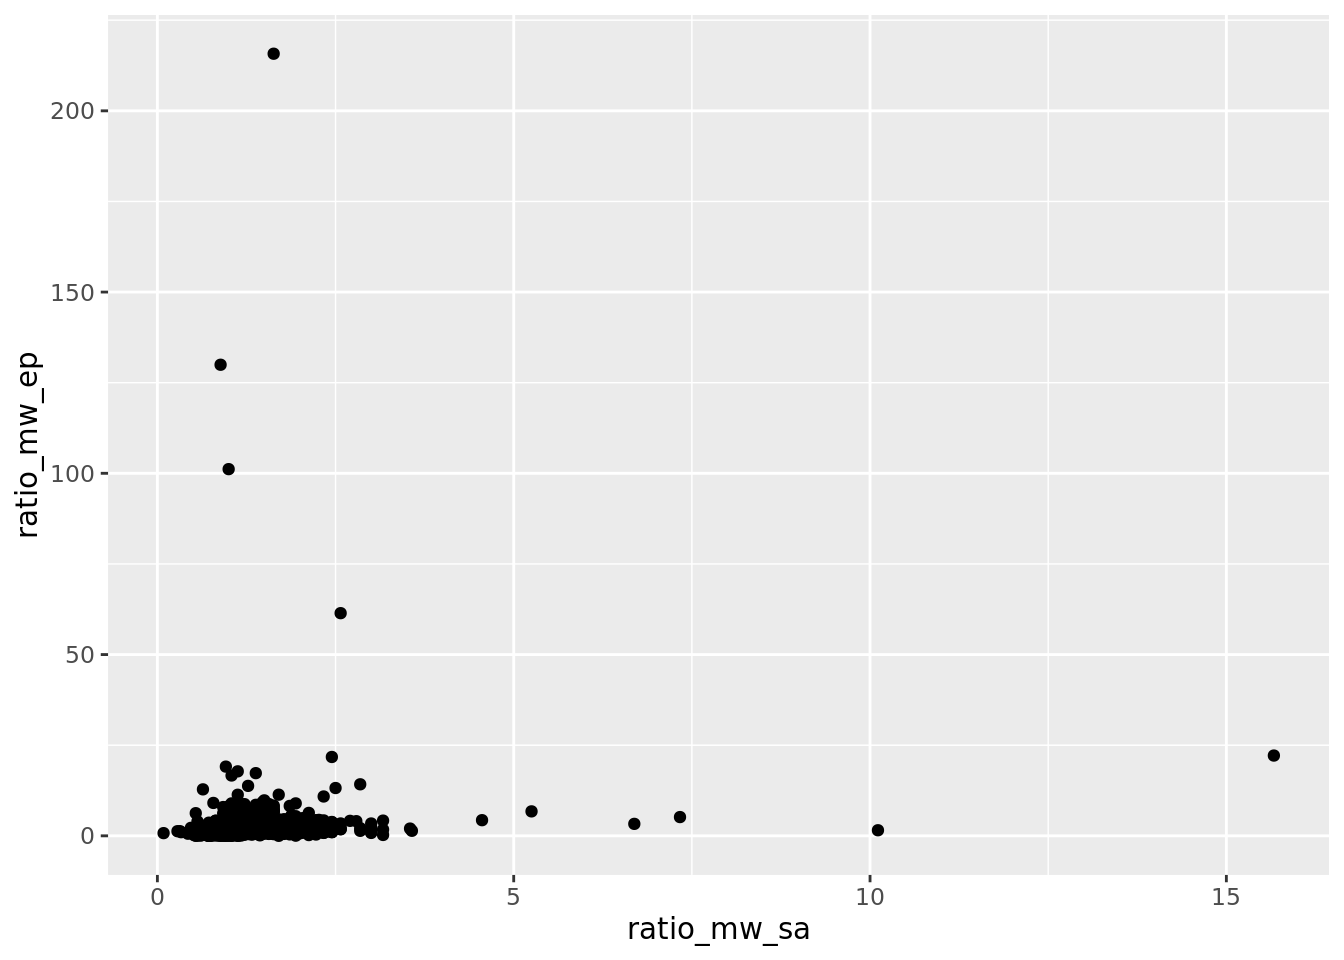
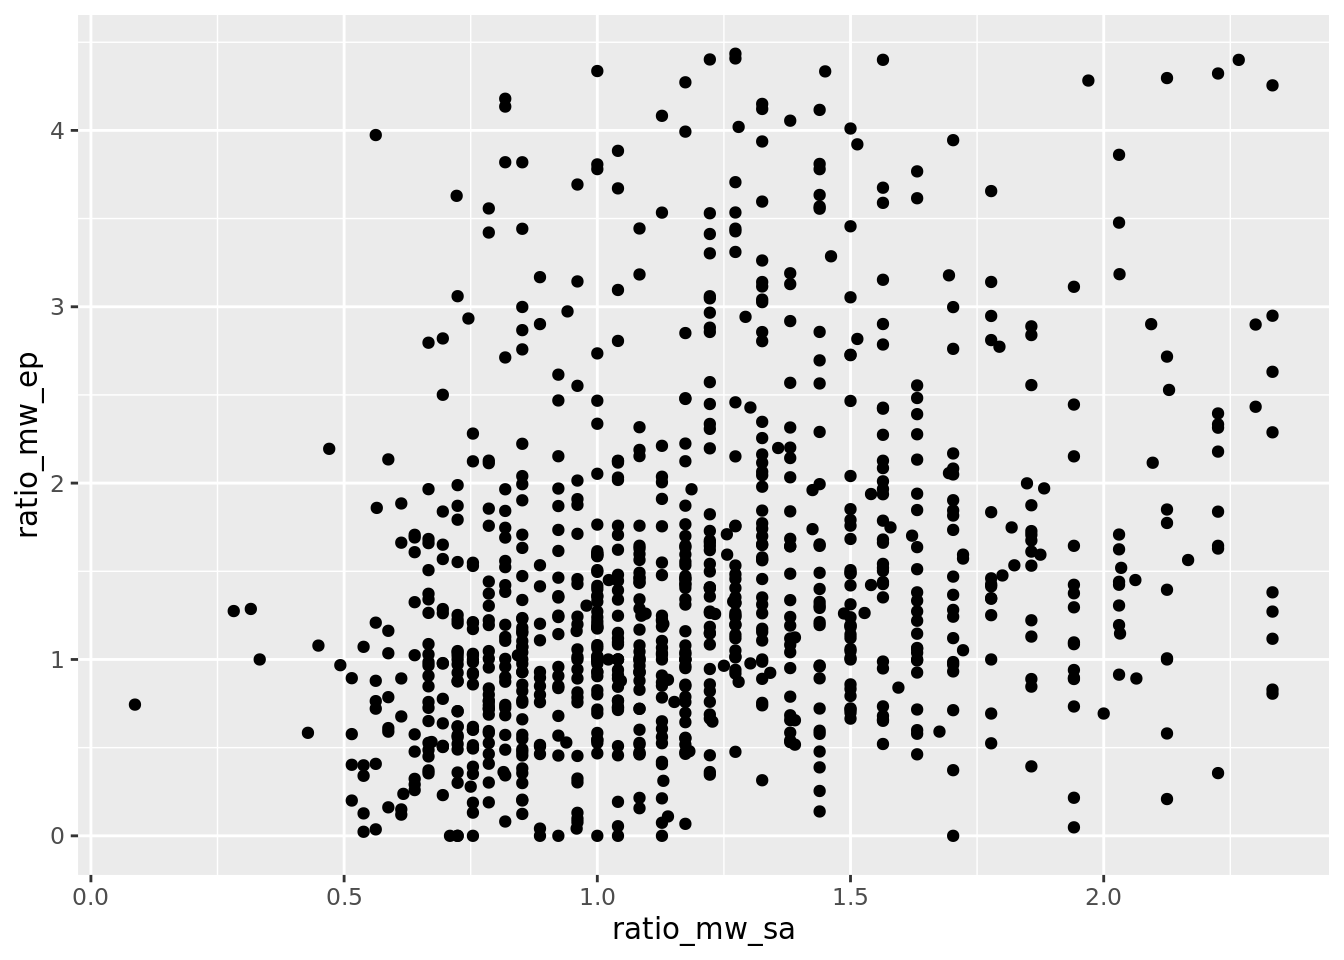
outliers no football and football

diff --git a/docs/report.html b/docs/report.html
@@ -327,13 +327,39 @@ $ ratio_mw_ep         &lt;dbl&gt; 1.1985337, 2.4287042, 1.3413262, 1.3052437, 6.
 <div class="sourceCode cell-code" id="cb8"><pre class="sourceCode r code-with-copy"><code class="sourceCode r"><span id="cb8-1"><a href="#cb8-1" aria-hidden="true" tabindex="-1"></a>eada_nofootball <span class="ot">&lt;-</span> eada <span class="sc">|&gt;</span></span>
 <span id="cb8-2"><a href="#cb8-2" aria-hidden="true" tabindex="-1"></a>  <span class="fu">filter</span>(classification_name <span class="sc">==</span> <span class="st">"NCAA Division I without football"</span> <span class="sc">|</span></span>
 <span id="cb8-3"><a href="#cb8-3" aria-hidden="true" tabindex="-1"></a>        classification_name <span class="sc">==</span> <span class="st">"NCAA Division II without football"</span> <span class="sc">|</span> </span>
-<span id="cb8-4"><a href="#cb8-4" aria-hidden="true" tabindex="-1"></a>        classification_name <span class="sc">==</span> <span class="st">"NCAA Division III without football"</span>)</span></code><button title="Copy to Clipboard" class="code-copy-button"><i class="bi"></i></button></pre></div>
+<span id="cb8-4"><a href="#cb8-4" aria-hidden="true" tabindex="-1"></a>        classification_name <span class="sc">==</span> <span class="st">"NCAA Division III without football"</span>)</span>
+<span id="cb8-5"><a href="#cb8-5" aria-hidden="true" tabindex="-1"></a></span>
+<span id="cb8-6"><a href="#cb8-6" aria-hidden="true" tabindex="-1"></a>Q1_nofootball_ep <span class="ot">&lt;-</span> <span class="fu">quantile</span>(eada_nofootball<span class="sc">$</span>ratio_mw_ep, .<span class="dv">25</span>)</span>
+<span id="cb8-7"><a href="#cb8-7" aria-hidden="true" tabindex="-1"></a>Q1_nofootball_sa <span class="ot">&lt;-</span> <span class="fu">quantile</span>(eada_nofootball<span class="sc">$</span>ratio_mw_sa, .<span class="dv">25</span>)</span>
+<span id="cb8-8"><a href="#cb8-8" aria-hidden="true" tabindex="-1"></a></span>
+<span id="cb8-9"><a href="#cb8-9" aria-hidden="true" tabindex="-1"></a>Q3_nofootball_ep <span class="ot">&lt;-</span> <span class="fu">quantile</span>(eada_nofootball<span class="sc">$</span>ratio_mw_ep, .<span class="dv">75</span>)</span>
+<span id="cb8-10"><a href="#cb8-10" aria-hidden="true" tabindex="-1"></a>Q3_nofootball_sa <span class="ot">&lt;-</span> <span class="fu">quantile</span>(eada_nofootball<span class="sc">$</span>ratio_mw_sa, .<span class="dv">75</span>)</span>
+<span id="cb8-11"><a href="#cb8-11" aria-hidden="true" tabindex="-1"></a></span>
+<span id="cb8-12"><a href="#cb8-12" aria-hidden="true" tabindex="-1"></a>IQR_nofootball_ep <span class="ot">&lt;-</span> <span class="fu">IQR</span>(eada_nofootball<span class="sc">$</span>ratio_mw_ep)</span>
+<span id="cb8-13"><a href="#cb8-13" aria-hidden="true" tabindex="-1"></a>IQR_nofootball_sa <span class="ot">&lt;-</span> <span class="fu">IQR</span>(eada_nofootball<span class="sc">$</span>ratio_mw_sa)</span>
+<span id="cb8-14"><a href="#cb8-14" aria-hidden="true" tabindex="-1"></a></span>
+<span id="cb8-15"><a href="#cb8-15" aria-hidden="true" tabindex="-1"></a>eada_nofootball <span class="ot">&lt;-</span> <span class="fu">subset</span>(eada_nofootball, eada_nofootball<span class="sc">$</span>ratio_mw_ep<span class="sc">&gt;</span> (Q1_nofootball_ep <span class="sc">-</span> <span class="fl">1.5</span><span class="sc">*</span>IQR_nofootball_ep) <span class="sc">&amp;</span> eada_nofootball<span class="sc">$</span>ratio_mw_ep<span class="sc">&lt;</span> (Q3_nofootball_ep <span class="sc">+</span> <span class="fl">1.5</span><span class="sc">*</span>IQR_nofootball_ep))</span>
+<span id="cb8-16"><a href="#cb8-16" aria-hidden="true" tabindex="-1"></a></span>
+<span id="cb8-17"><a href="#cb8-17" aria-hidden="true" tabindex="-1"></a>eada_nofootball <span class="ot">&lt;-</span> <span class="fu">subset</span>(eada_nofootball, eada_nofootball<span class="sc">$</span>ratio_mw_sa<span class="sc">&gt;</span> (Q1_nofootball_sa <span class="sc">-</span> <span class="fl">1.5</span><span class="sc">*</span>IQR_nofootball_sa) <span class="sc">&amp;</span> eada_nofootball<span class="sc">$</span>ratio_mw_sa<span class="sc">&lt;</span> (Q3_nofootball_sa <span class="sc">+</span> <span class="fl">1.5</span><span class="sc">*</span>IQR_nofootball_sa))</span></code><button title="Copy to Clipboard" class="code-copy-button"><i class="bi"></i></button></pre></div>
 </div>
 <div class="cell">
 <div class="sourceCode cell-code" id="cb9"><pre class="sourceCode r code-with-copy"><code class="sourceCode r"><span id="cb9-1"><a href="#cb9-1" aria-hidden="true" tabindex="-1"></a>eada_football <span class="ot">&lt;-</span> eada <span class="sc">|&gt;</span></span>
 <span id="cb9-2"><a href="#cb9-2" aria-hidden="true" tabindex="-1"></a>  <span class="fu">filter</span>(classification_name <span class="sc">!=</span> <span class="st">"NCAA Division I without football"</span> <span class="sc">|</span> </span>
 <span id="cb9-3"><a href="#cb9-3" aria-hidden="true" tabindex="-1"></a>         classification_name <span class="sc">!=</span> <span class="st">"NCAA Division II without football"</span> <span class="sc">|</span> </span>
-<span id="cb9-4"><a href="#cb9-4" aria-hidden="true" tabindex="-1"></a>         classification_name <span class="sc">!=</span> <span class="st">"NCAA Division III without football"</span>)</span></code><button title="Copy to Clipboard" class="code-copy-button"><i class="bi"></i></button></pre></div>
+<span id="cb9-4"><a href="#cb9-4" aria-hidden="true" tabindex="-1"></a>         classification_name <span class="sc">!=</span> <span class="st">"NCAA Division III without football"</span>)</span>
+<span id="cb9-5"><a href="#cb9-5" aria-hidden="true" tabindex="-1"></a></span>
+<span id="cb9-6"><a href="#cb9-6" aria-hidden="true" tabindex="-1"></a>Q1_football_ep <span class="ot">&lt;-</span> <span class="fu">quantile</span>(eada_football<span class="sc">$</span>ratio_mw_ep, .<span class="dv">25</span>)</span>
+<span id="cb9-7"><a href="#cb9-7" aria-hidden="true" tabindex="-1"></a>Q1_football_sa <span class="ot">&lt;-</span> <span class="fu">quantile</span>(eada_football<span class="sc">$</span>ratio_mw_sa, .<span class="dv">25</span>)</span>
+<span id="cb9-8"><a href="#cb9-8" aria-hidden="true" tabindex="-1"></a></span>
+<span id="cb9-9"><a href="#cb9-9" aria-hidden="true" tabindex="-1"></a>Q3_football_ep <span class="ot">&lt;-</span> <span class="fu">quantile</span>(eada_football<span class="sc">$</span>ratio_mw_ep, .<span class="dv">75</span>)</span>
+<span id="cb9-10"><a href="#cb9-10" aria-hidden="true" tabindex="-1"></a>Q3_football_sa <span class="ot">&lt;-</span> <span class="fu">quantile</span>(eada_football<span class="sc">$</span>ratio_mw_sa, .<span class="dv">75</span>)</span>
+<span id="cb9-11"><a href="#cb9-11" aria-hidden="true" tabindex="-1"></a></span>
+<span id="cb9-12"><a href="#cb9-12" aria-hidden="true" tabindex="-1"></a>IQR_football_ep <span class="ot">&lt;-</span> <span class="fu">IQR</span>(eada_football<span class="sc">$</span>ratio_mw_ep)</span>
+<span id="cb9-13"><a href="#cb9-13" aria-hidden="true" tabindex="-1"></a>IQR_football_sa <span class="ot">&lt;-</span> <span class="fu">IQR</span>(eada_football<span class="sc">$</span>ratio_mw_sa)</span>
+<span id="cb9-14"><a href="#cb9-14" aria-hidden="true" tabindex="-1"></a></span>
+<span id="cb9-15"><a href="#cb9-15" aria-hidden="true" tabindex="-1"></a>eada_football <span class="ot">&lt;-</span> <span class="fu">subset</span>(eada_football, eada_football<span class="sc">$</span>ratio_mw_ep<span class="sc">&gt;</span> (Q1_football_ep <span class="sc">-</span> <span class="fl">1.5</span><span class="sc">*</span>IQR_football_ep) <span class="sc">&amp;</span> eada_football<span class="sc">$</span>ratio_mw_ep<span class="sc">&lt;</span> (Q3_football_ep <span class="sc">+</span> <span class="fl">1.5</span><span class="sc">*</span>IQR_football_ep))</span>
+<span id="cb9-16"><a href="#cb9-16" aria-hidden="true" tabindex="-1"></a></span>
+<span id="cb9-17"><a href="#cb9-17" aria-hidden="true" tabindex="-1"></a>eada_football <span class="ot">&lt;-</span> <span class="fu">subset</span>(eada_football, eada_football<span class="sc">$</span>ratio_mw_sa<span class="sc">&gt;</span> (Q1_football_sa <span class="sc">-</span> <span class="fl">1.5</span><span class="sc">*</span>IQR_football_sa) <span class="sc">&amp;</span> eada_football<span class="sc">$</span>ratio_mw_sa<span class="sc">&lt;</span> (Q3_football_sa <span class="sc">+</span> <span class="fl">1.5</span><span class="sc">*</span>IQR_football_sa))</span></code><button title="Copy to Clipboard" class="code-copy-button"><i class="bi"></i></button></pre></div>
 </div>
 <div class="cell">
 <div class="sourceCode cell-code" id="cb10"><pre class="sourceCode r code-with-copy"><code class="sourceCode r"><span id="cb10-1"><a href="#cb10-1" aria-hidden="true" tabindex="-1"></a>eada_divisionI <span class="ot">&lt;-</span> eada <span class="sc">|&gt;</span></span>
